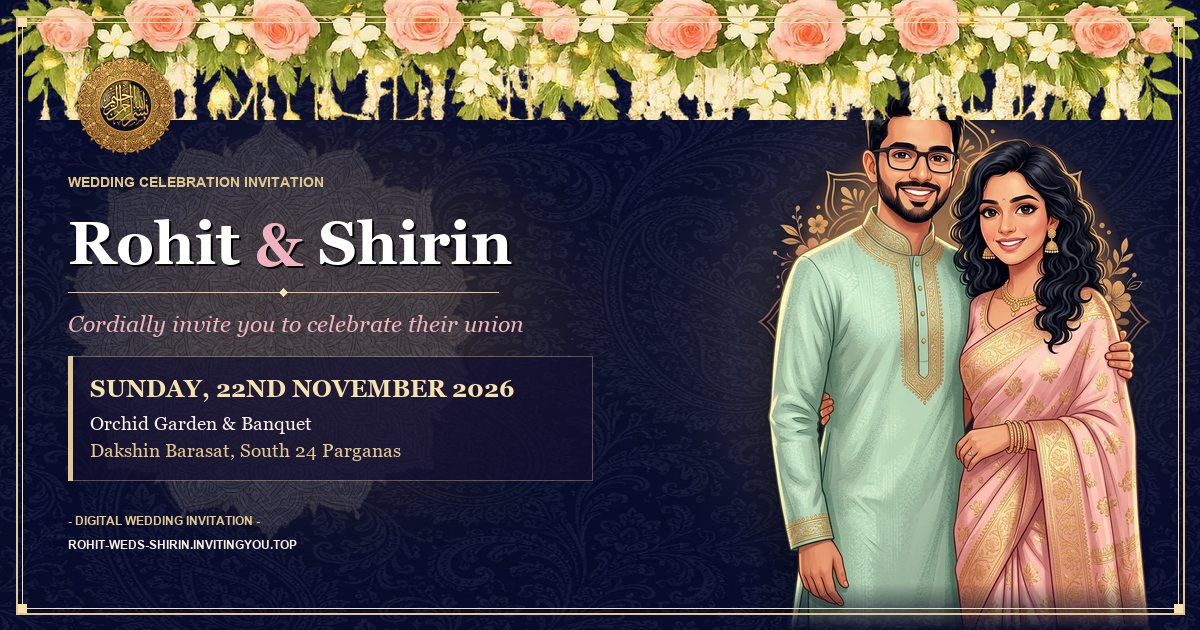
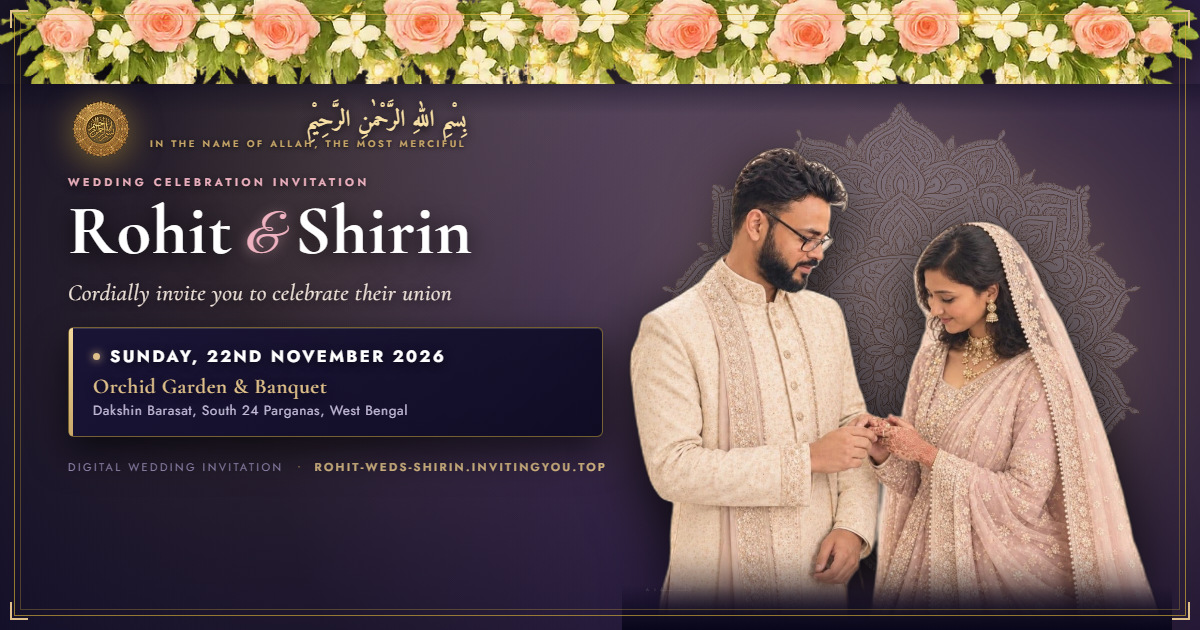
Generate new high-res lossless OG image with real couple photo and update OpenGraph tags

diff --git a/index.html b/index.html
@@ -25,9 +25,9 @@
     <meta property="og:url" content="https://rohit-weds-shirin.invitingyou.top/" />
     <meta property="og:title" content="Rohit ❤ Shirin — Wedding Invitation" />
     <meta property="og:description" content="We joyfully invite you to celebrate the wedding of Rohit & Shirin on Sunday, 22nd November 2026 at Orchid Garden & Banquet, Dakshin Barasat." />
-    <meta property="og:image" content="https://rohit-weds-shirin.invitingyou.top/assets/og-image.jpg" />
-    <meta property="og:image:secure_url" content="https://rohit-weds-shirin.invitingyou.top/assets/og-image.jpg" />
-    <meta property="og:image:type" content="image/jpeg" />
+    <meta property="og:image" content="https://rohit-weds-shirin.invitingyou.top/assets/og-image.png" />
+    <meta property="og:image:secure_url" content="https://rohit-weds-shirin.invitingyou.top/assets/og-image.png" />
+    <meta property="og:image:type" content="image/png" />
     <meta property="og:image:width" content="1200" />
     <meta property="og:image:height" content="630" />
     <meta property="og:image:alt" content="Rohit & Shirin Wedding Celebration Invitation" />
@@ -37,7 +37,7 @@
     <meta name="twitter:url" content="https://rohit-weds-shirin.invitingyou.top/" />
     <meta name="twitter:title" content="Rohit ❤ Shirin — Wedding Invitation" />
     <meta name="twitter:description" content="We joyfully invite you to celebrate the wedding of Rohit & Shirin on Sunday, 22nd November 2026 at Orchid Garden & Banquet, Dakshin Barasat." />
-    <meta name="twitter:image" content="https://rohit-weds-shirin.invitingyou.top/assets/og-image.jpg" />
+    <meta name="twitter:image" content="https://rohit-weds-shirin.invitingyou.top/assets/og-image.png" />
   </head>
   <body>
     <div id="root"></div>
